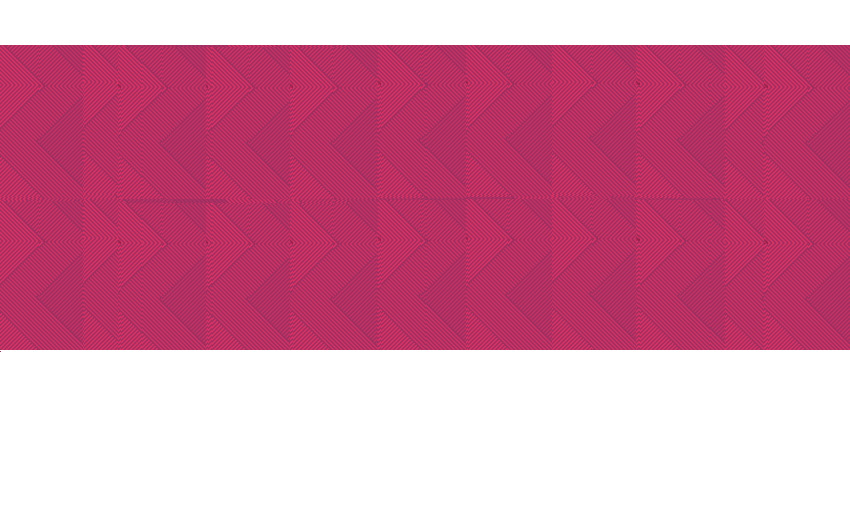
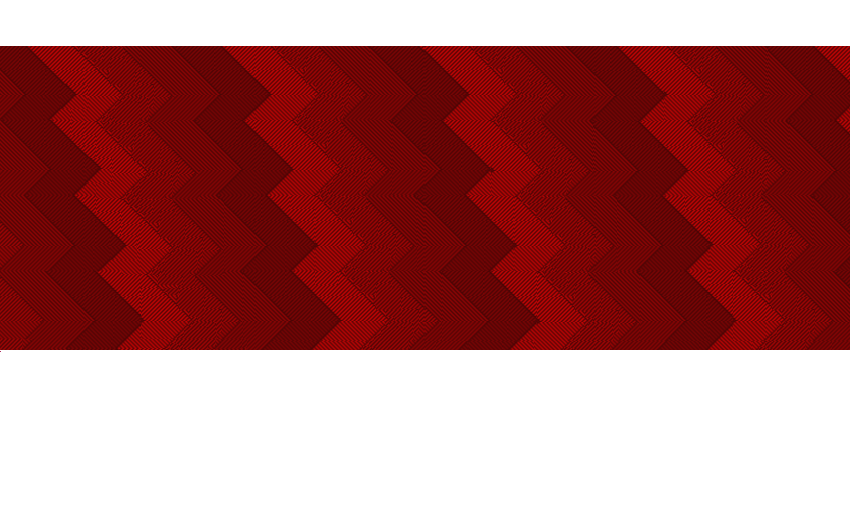
diseño de login e index cambiado

diff --git a/css/loginAdmi.css b/css/loginAdmi.css
@@ -1,0 +1,75 @@
+h4 {
+    font-family: 'Rubik', sans-serif;
+    margin-top: 20px;
+    margin-bottom: 17px;
+}
+
+h3 {
+    font-family: 'Roboto Mono', monospace;
+    font-size: 7.5mm;
+    text-align: center;
+}
+h1 {
+    font-family: 'Raleway', sans-serif;
+}
+
+html,body{
+    background-image: url('https://i.ibb.co/hmy6jmK/log.png');
+    background-size: cover;
+    background-repeat: no-repeat;
+    height: 100%;
+    font-family: 'Numans', sans-serif;
+}
+
+.card { 
+    background-color: rgb(175, 33, 33); opacity: 1; 
+    margin: 0 auto; 
+    float: none; 
+    margin-bottom: 10px; 
+
+}
+.card-header {
+    color:whitesmoke;
+}
+.bienvenido {
+    color: blanchedalmond;
+    left: 370px;
+    top: 600.0px;
+    
+}
+
+.icon-administrador-css span{
+    width: 60px;
+    height: 60px;
+    border-radius: 65px;
+    background-color: #7c6c35;
+    color: #fff;
+    border:0 !important;
+    position: absolute;
+    left: 405px;
+    top: 190.0px;
+}
+
+.icon-password-css span{
+    width: 60px;
+    height: 60px;
+    border-radius: 65px;
+    background-color: #7c6c35;
+    color: #fff;
+    border:0 !important;
+    position: absolute;
+    left: 410px;
+    top: 350.0px;
+}
+
+.boton-circle{
+    color: white;
+    background: black;
+    border-radius: 40px;
+    border-color: black;
+    font-size: 24px;
+    padding-left: 20px;
+    padding-right: 20px;
+    text-align: center;
+    margin-left: 500px;
+}

diff --git a/css/newindex.css b/css/newindex.css
@@ -1,0 +1,53 @@
+h4 {
+    font-family: 'Rubik', sans-serif;
+}
+
+h3 {
+    font-family: 'Oswald', sans-serif;
+}
+h1 {
+    font-family: 'Raleway', sans-serif;
+}
+
+
+html,body{
+    /*background-image: url('https://i.ibb.co/48RywGy/pru.png');*/
+    background-image: url('https://i.ibb.co/SswXJym/new-background.png');
+    background-size: cover;
+    background-repeat: no-repeat;
+    height: 100%;
+    font-family: 'Numans', sans-serif;
+}
+
+.card { 
+    background-color: rgb(151, 24, 24); opacity: 0.8; 
+    margin: 0 auto; 
+    float: none; 
+    margin-bottom: 10px; 
+
+}
+.card-header {
+    color:whitesmoke;
+}
+
+
+.boton-circle{
+    color: white;
+    background: black;
+    border-radius: 20px;
+    border-color: black;
+    padding-left: 30px;
+    padding-right: 30px;
+    padding-top: 5px;
+    padding-bottom: 5px;
+    font-size: larger;
+}
+
+/*.card { 
+    background-color: rgba(194, 176, 176, 0.4); 
+    margin: 0 auto; 
+    float: none; 
+    margin-bottom: 10px; 
+}*/
+
+

diff --git a/index.php b/index.php
@@ -18,7 +18,7 @@
     <!-- Bootstrap CSS -->
     <link rel="stylesheet" href="https://stackpath.bootstrapcdn.com/bootstrap/4.3.1/css/bootstrap.min.css" integrity="sha384-ggOyR0iXCbMQv3Xipma34MD+dH/1fQ784/j6cY/iJTQUOhcWr7x9JvoRxT2MZw1T" crossorigin="anonymous">
     <!--CSS-->
-    <link href="css/index.css" rel="stylesheet" >
+    <link href="css/newindex.css" rel="stylesheet" >
     <!--JS-->
     <script type="text/javascript">
         history.pushState(null, null, location.href);
@@ -30,43 +30,16 @@
     <title>contenido de convenios</title>
   </head>
   <body  onunload="">
-
+  <img src="img/titulo.png">
     <div class="container"><!---------------CONTAINER PARA CAROUSEL----------->
       <!--SLIDER CAROUSEL-->
         <div class="container text-center">
-          <div id="mycarousel" class="carousel slide" data-ride="carousel" data-interval="2000">
-            <ol class="carousel-indicators">
-              <li data-target="#mycarousel" data-slide-to="0" class="active"></li>
-              <li data-target="#mycarousel" data-slide-to="1"></li>
-              <li data-target="#mycarousel" data-slide-to="2"></li>
-            </ol>
-            <div class="carousel-inner">
-              <div class="carousel-item active">
-                <img src="img/slide1.png">
-                <div class="carousel-caption"></div>
-              </div>
-              <div class="carousel-item"> 
-                <img src="img/slide2.png"> 
-                <div class="carousel-caption"></div>
-              </div>
-              <div class="carousel-item"> 
-                <img src="img/slide3.png"> 
-                <div class="carousel-caption"></div>
-              </div>
-            </div>
-            <a class="carousel-control-prev" href="#mycarousel" role="button" data-slide="prev">
-              <span class="carousel-control-prev-icon" aria-hidden="true"></span>
-              <span class="sr-only">Previous</span>
-            </a>
-            <a class="carousel-control-next" href="#mycarousel" role="button" data-slide="next">
-              <span class="carousel-control-next-icon" aria-hidden="true"></span>
-              <span class="sr-only">Next</span>
-            </a>
-          </div> 
+                
           <!-- Bienvenido-->
           <h4>Bienvenido a la página oficial de contenidos de convenios de la Universidad Privada Boliviana</h4>
           <h6>.</h6>
-      </div> <!-------------------ACABA CONTAINER PARA CAROUSEL------------------------>
+          </div>
+    </div> <!-------------------ACABA CONTAINER PARA CAROUSEL------------------------>
       
       <!------LOGIN-------->
       <div class="text-center"> <!------TEXT CENTER------->
@@ -110,7 +83,7 @@
               </div>
             </div><!--ACABA CARD BORDER-->            
             
-            <button type="submit" name="submit_index" class="btn boton-circle" style="margin-left:490px;">Ingresar</button>
+            <button type="submit" name="submit_index" class="btn boton-circle" style="margin-left:620px;">Ingresar</button>
           
           </div><!--ACABA CONTAINER-->
         </form>

diff --git a/login.php b/login.php
@@ -7,7 +7,7 @@
 
     <!-- Bootstrap CSS -->
     <link rel="stylesheet" href="https://stackpath.bootstrapcdn.com/bootstrap/4.3.1/css/bootstrap.min.css" integrity="sha384-ggOyR0iXCbMQv3Xipma34MD+dH/1fQ784/j6cY/iJTQUOhcWr7x9JvoRxT2MZw1T" crossorigin="anonymous">
-    <link href="css/login1.css" rel="stylesheet">
+    <link href="css/loginAdmi.css" rel="stylesheet">
     <!--<link rel="stylesheet" href="https://stackpath.bootstrapcdn.com/font-awesome/4.7.0/css/font-awesome.min.css">-->
     <link rel="stylesheet" href="https://use.fontawesome.com/releases/v5.8.1/css/all.css" integrity="sha384-50oBUHEmvpQ+1lW4y57PTFmhCaXp0ML5d60M1M7uH2+nqUivzIebhndOJK28anvf" crossorigin="anonymous">
     <link href="https://fonts.googleapis.com/css?family=Open+Sans&display=swap" rel="stylesheet" type="text/css">
